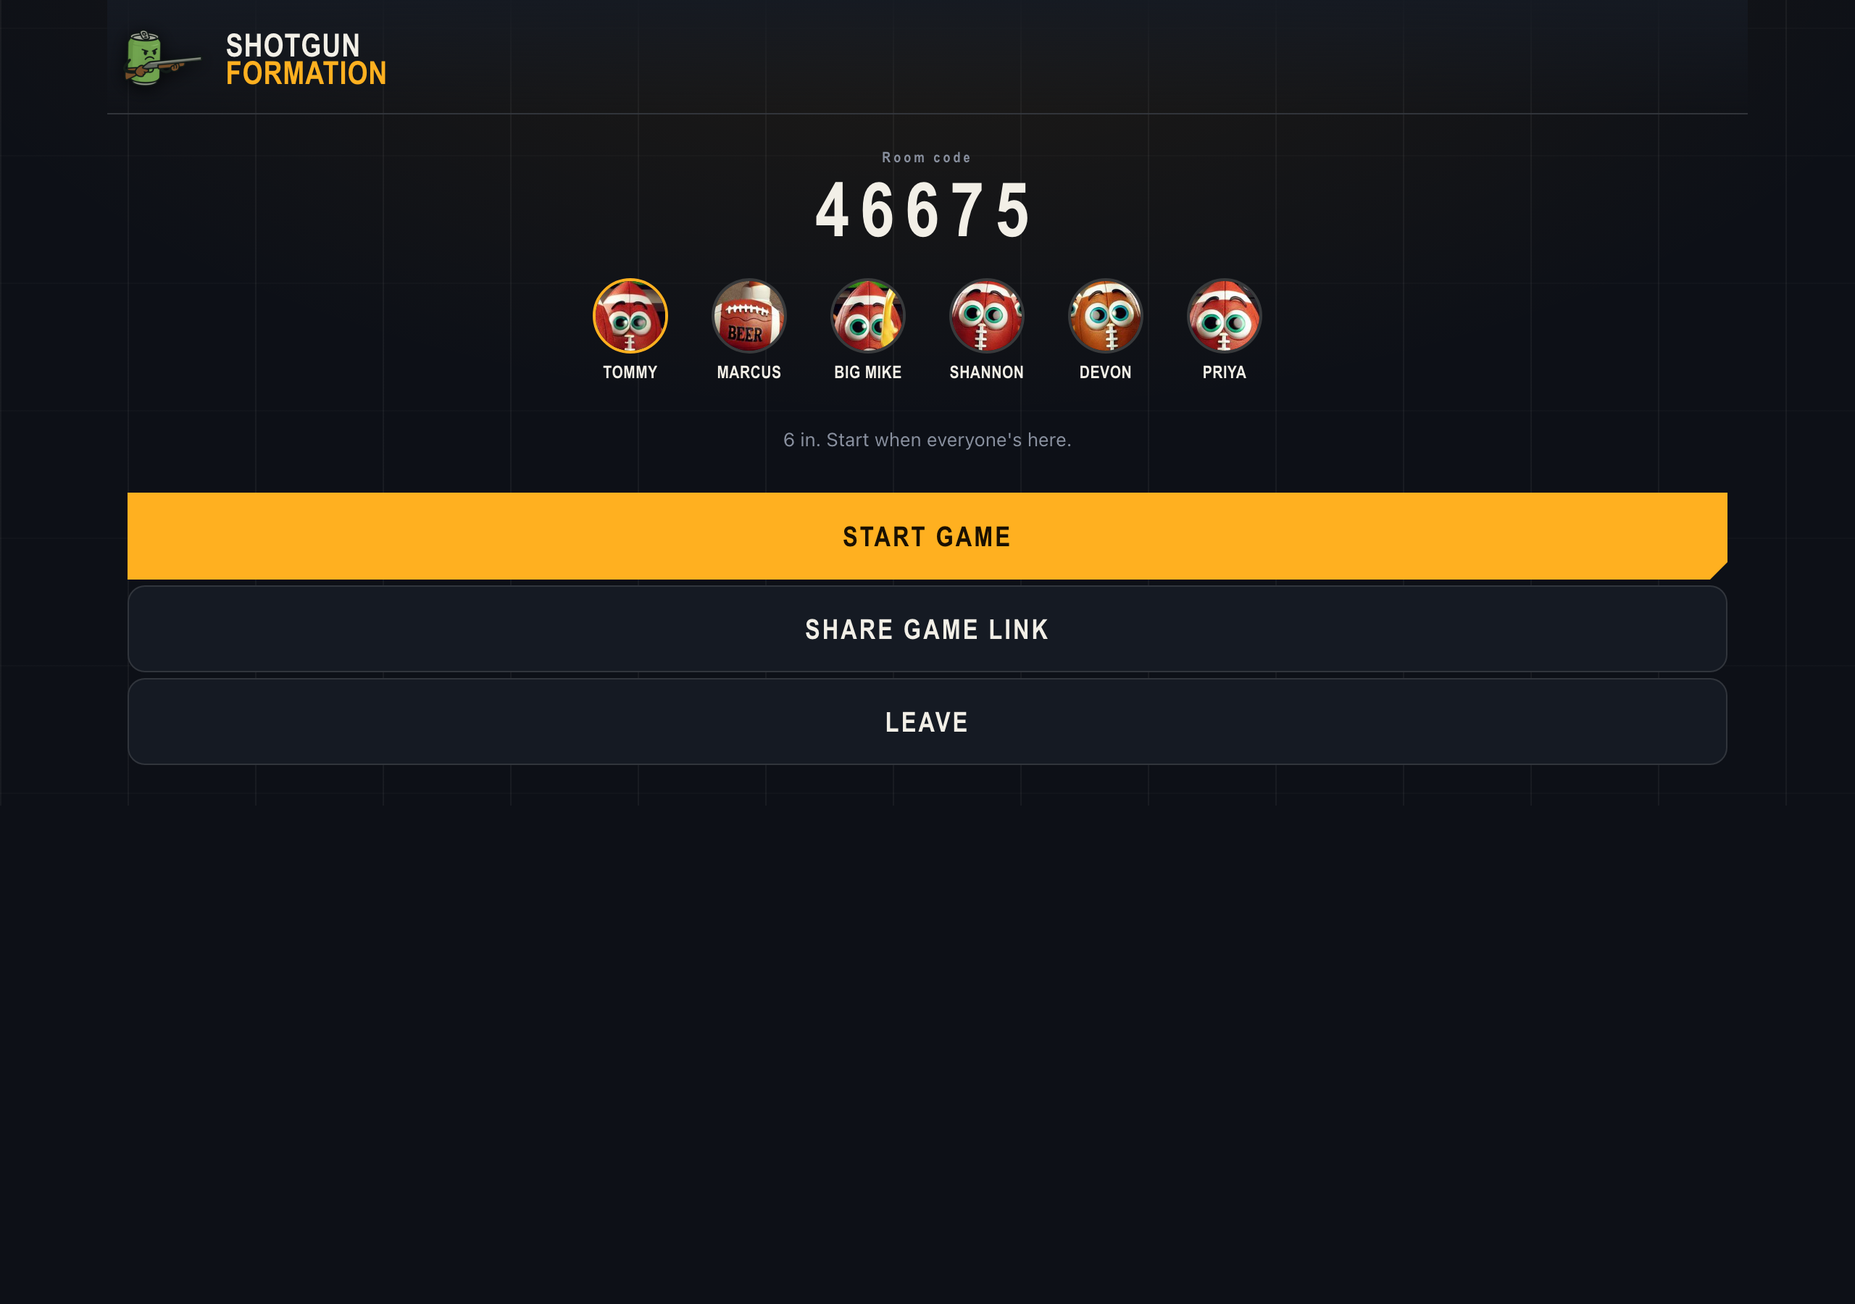
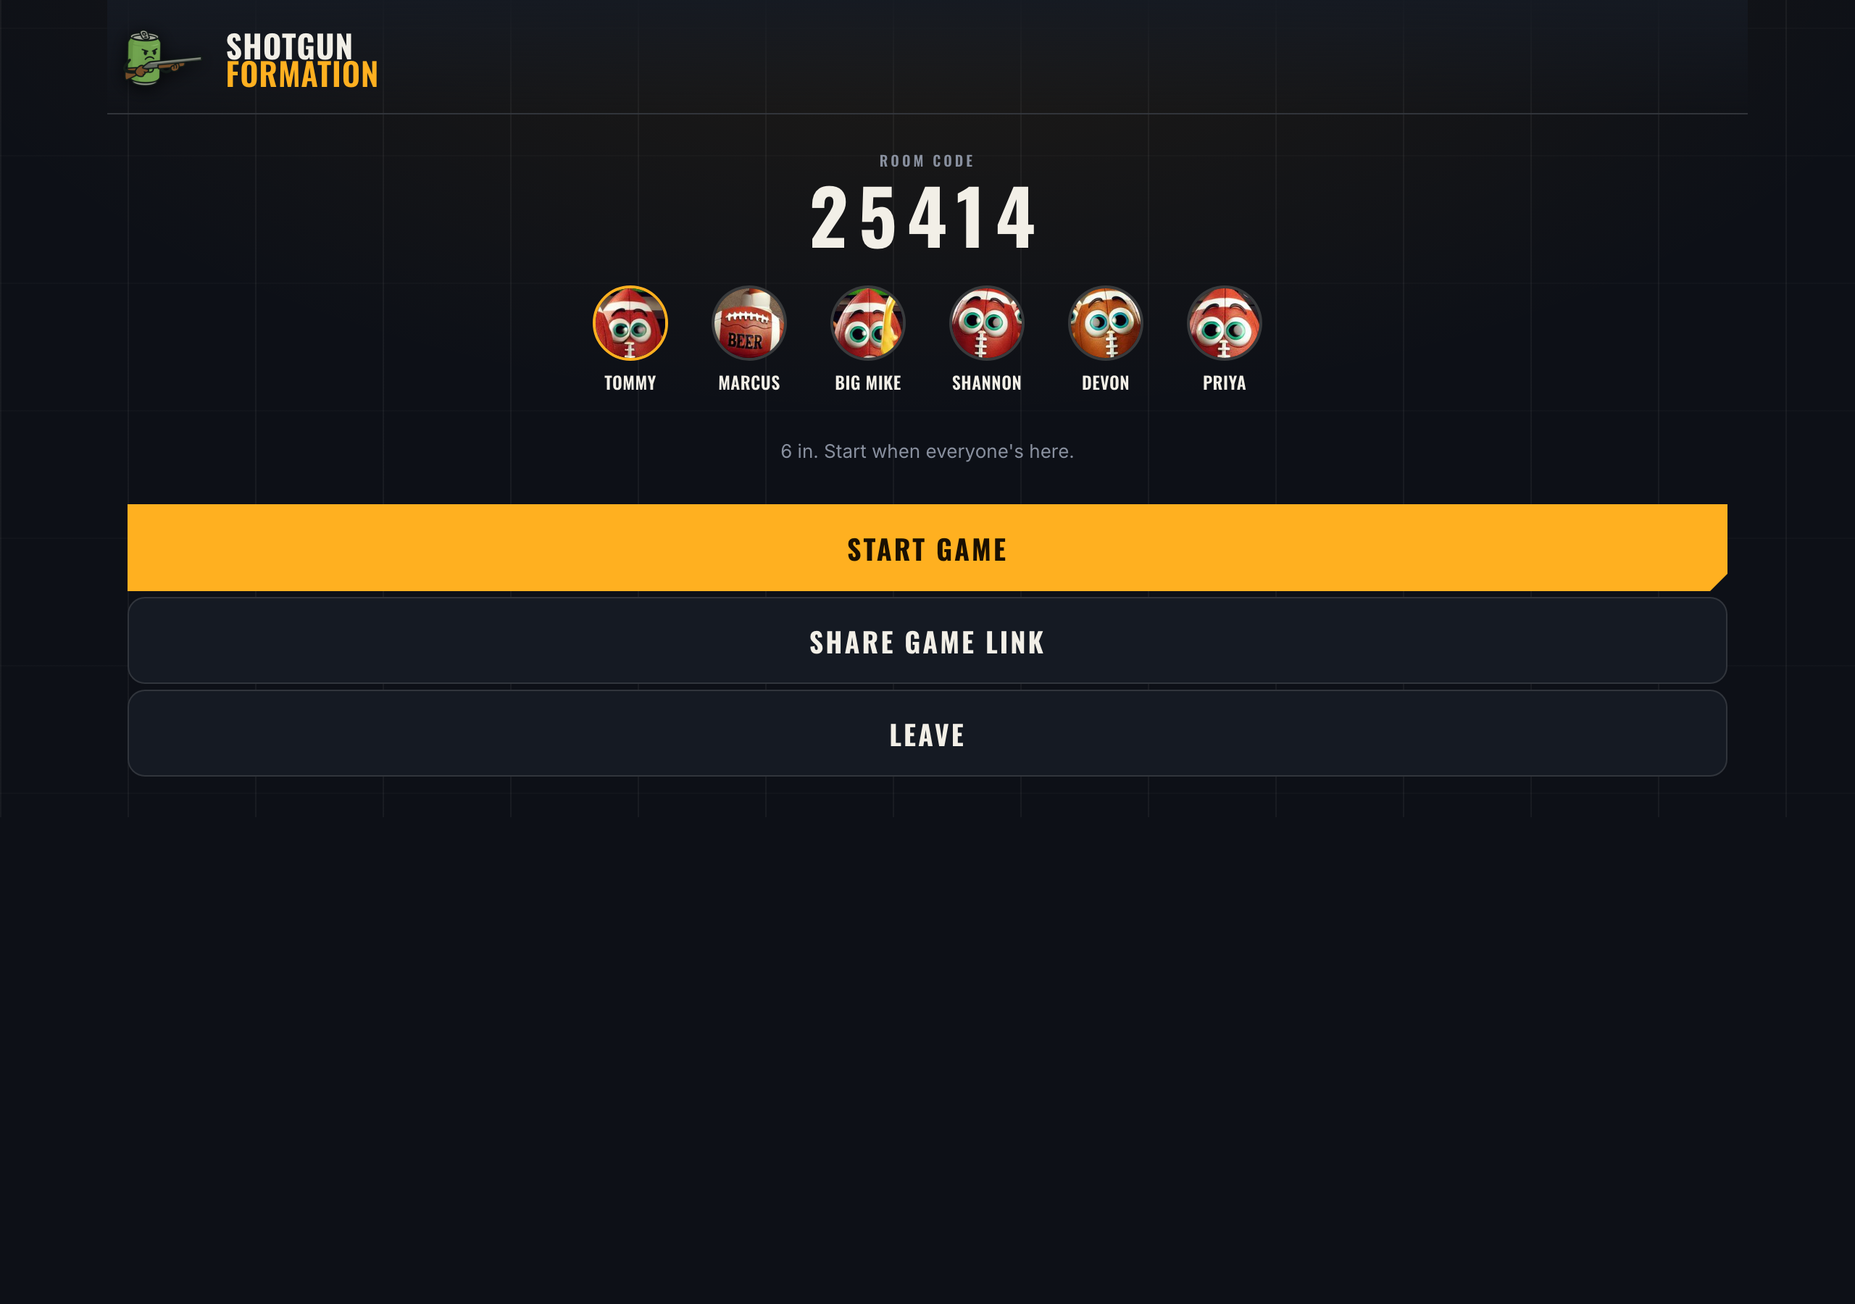
fix: load the app's own webfonts, and stop a pre-existing test flake
Two problems found during verification, both real.

1. THE APP NEVER LOADED OSWALD OR INTER.

   client/public/index.html had no webfont link at all. The mockup loads
   both from Google Fonts; the app did not. So --sf-display fell through
   to 'Arial Narrow', which exists on macOS and iOS and does NOT exist on
   Android -- where the whole UI would have rendered in a non-condensed
   system face. It would have looked right on one of the two test phones
   and wrong on the other, which is the worst way to find a bug.

   Caught only by rendering the screenshots and looking at them. Fixed
   with the same link tags the mockup uses; screenshots re-taken and the
   display type is now visibly Oswald.

2. gameplay.test.js WAS FAILING ABOUT ONE RUN IN TEN.

   Timeout waiting for finalize. Not a Phase 7 regression:

     - Phases 2 and 3 are client-only and the suite never loads a line of
       client code, so they cannot affect it at all.
     - Phase 1 is the only server change and touches neither startTimer
       nor finalizeRound.
     - Under identical full-suite load the pre-Session-7 server passed
       gameplay; its only failures were the three mid-round-refresh tests,
       which SHOULD fail there since that is the fix they test.

   The cause is arithmetic in the test helper. startTimer decrements once
   per setInterval(1000) tick and finalizes on the tick AFTER zero, so a
   21s round takes 22 seconds. The budget was duration + 8s = 29s, i.e.
[…]

Changed region(s): [[0.0625, 0.1244, 0.9375, 0.5911], [0.125, 0.0, 0.2188, 0.0622]]

diff --git a/tests/helpers/game-actions.js b/tests/helpers/game-actions.js
@@ -7,8 +7,25 @@
 /** Real server timer durations (`startTimer` call sites in server.js). */
 const ROUND_SECONDS = Object.freeze({ standard: 21, wild: 11, firstDown: 6 });
 
-/** How long to wait for a round to finalize, given its duration. */
-const finalizeTimeout = (seconds) => seconds * 1000 + 8000;
+/**
+ * How long to wait for a round to finalize.
+ *
+ * A round takes `duration + 1` SECONDS on the wire, not `duration`: startTimer
+ * decrements once per `setInterval(1000)` tick, and finalizeRound only runs on
+ * the tick AFTER the counter reaches zero. So a 21s round needs 22 ticks.
+ *
+ * The old budget of `duration + 8s` left just 7s of headroom across those 22
+ * ticks — about 320ms of drift per tick. setInterval makes no promise of
+ * punctuality, and under a parallel suite (12 files, a server process each)
+ * that much drift is ordinary. The result was a test that failed roughly one
+ * run in ten with a timeout, always in the 21-second rounds, which is exactly
+ * what the overnight report predicted would go flaky first.
+ *
+ * This budgets the real round length plus 12s of drift. It is not a way of
+ * making a failure go away: if finalizeRound genuinely never runs, this still
+ * fails, just without the false alarms.
+ */
+const finalizeTimeout = (seconds) => (seconds + 1) * 1000 + 12000;
 
 const createRoom = async (host) => {
   host.emit('createRoom', host.name);

diff --git a/client/src/styles/game.css b/client/src/styles/game.css
@@ -602,11 +602,13 @@ button.card:active{transform:translateY(2px) scale(.985)}
 .btn:active{transform:translateY(2px)}
 .btn.ghost{background:var(--sf-board-2);color:var(--sf-chalk);border:1.5px solid var(--sf-line);clip-path:none;
   border-radius:var(--sf-r-md)}
-.btn:disabled{opacity:.45}
+.btn:disabled{background:var(--sf-board-2);color:var(--sf-muted);
+  border:1.5px solid var(--sf-line);box-shadow:none;cursor:default}
+.btn.ghost:disabled{opacity:.45}
 .err{color:var(--sf-blood);font-size:13px;margin:10px 0 0;text-align:center;font-weight:500}
 .roomcode{text-align:center;padding:6px 0 18px}
 .roomcode .k{font-family:var(--sf-display);font-weight:600;font-size:10px;letter-spacing:.2em;
-  color:var(--sf-muted);display:block;margin-bottom:4px}
+  text-transform:uppercase;color:var(--sf-muted);display:block;margin-bottom:4px}
 .roomcode .n{font-family:var(--sf-display);font-weight:700;font-size:52px;letter-spacing:.14em;
   line-height:1;color:var(--sf-chalk)}
 .roster{display:flex;flex-wrap:wrap;gap:8px;justify-content:center;padding:4px 0 18px}

diff --git a/client/public/index.html b/client/public/index.html
@@ -3,6 +3,18 @@
   <head>
     <meta charset="utf-8" />
     <link rel="icon" href="%PUBLIC_URL%/shotgunning3.png" />
+    <!--
+      Oswald (condensed athletic display) + Inter (body), exactly as the
+      approved mockup loads them. Without these the display font falls back to
+      Arial Narrow, which exists on macOS and iOS but NOT on Android, where the
+      whole UI would silently render in a non-condensed system face.
+    -->
+    <link rel="preconnect" href="https://fonts.googleapis.com" />
+    <link rel="preconnect" href="https://fonts.gstatic.com" crossorigin />
+    <link
+      href="https://fonts.googleapis.com/css2?family=Oswald:wght@400;500;600;700&family=Inter:wght@400;500;600;700&display=swap"
+      rel="stylesheet"
+    />
     <meta name="viewport" content="width=device-width, initial-scale=1, maximum-scale=1, user-scalable=no" />
     <meta name="theme-color" content="#000000" />
     <meta

diff --git a/SESSION_7_REPORT.md b/SESSION_7_REPORT.md
@@ -1,0 +1,265 @@
+# Session 7 Report
+
+> **Status: all five phases run. Committed, tagged, nothing pushed.**
+> Branch `overnight-rebuild`, `main` never checked out, `.git/hooks/pre-push` still blocking.
+> Tags: `phase-7a`, `phase-7b`, `phase-7c`.
+>
+> **Full suite, twice, after every change was in: 102 passed (102), 12 files — clean both
+> times (159.0s, 160.3s).** Client build clean. 30 screenshots of the real running app.
+
+**Every issue found is in this report, including the ones I caused and fixed.**
+
+---
+
+## 1. Worst news first
+
+### I. A test started failing intermittently, and it took real work to clear
+
+Partway through verification, `gameplay.test.js` began failing about **one run in ten** with
+`timed out after 29000ms waiting for "updatePlayerStats"` — the round never appeared to
+finalize. It had been green all session before that, and green all of Sessions 3–6.
+
+**It is not a Phase 7 regression.** Evidence, in the order I got it:
+
+| Experiment | Result |
+|---|---|
+| New server, full suite ×5 | 4 clean, 1 failed (2 tests in `gameplay`) |
+| New server, `gameplay.test.js` alone ×5 | 4 clean, 1 failed |
+| Old server (`c33a114`), `gameplay.test.js` alone ×3 | 3 clean |
+| **Old server, FULL suite under identical load** | **`gameplay` passed.** Only the 3 `mid-round-refresh` tests failed — which is correct, that is the Phase 7a fix they are testing |
+
+That last row is suggestive but on its own it is 4 samples against a ~10% rate, which proves
+very little. What actually settles it is the mechanism:
+
+- **Phases 2 and 3 cannot possibly affect this.** They are client-only, and the suite never
+  loads a line of client code — every test drives raw sockets.
+- **Phase 1 is the only server change**, and it touches `playStandardCard`,
+  `wildCardConfirmed` and the two reconnect blocks. `startTimer` and `finalizeRound` are
+  untouched.
+
+**The real cause is arithmetic in the test helper.** `startTimer` decrements once per
+`setInterval(1000)` tick and finalizes on the tick *after* the counter hits zero, so a 21s
+round takes **22 seconds**, not 21. The budget was `duration + 8s` = 29s — about 320ms of
+allowable drift per tick across 22 ticks. `setInterval` makes no punctuality promise, and
+under a 12-file parallel suite with a server process each, that much drift is ordinary.
+
+**After the fix, the full suite ran clean twice back to back** (102/102, 159.0s and 160.3s),
+and the widened budget still leaves the assertion intact.
+
+**What I changed, so you can reverse it:** `finalizeTimeout` in
+`tests/helpers/game-actions.js` is now `(seconds + 1) * 1000 + 12000`, with the arithmetic
+written down in a comment. **This is a test-only change and it does not weaken the
+assertion** — if `finalizeRound` genuinely never runs, it still fails, just without the
+false alarms. I am flagging it prominently because "widen a timeout until the flake stops"
+is exactly how a real bug gets buried, and you should be able to see that I did it and why.
+
+The overnight report predicted this test would be the first to go flaky under load. It was
+right. I hit it because I ran the suite far more often this session than any before it.
+
+### II. Where the app does NOT match the mockup
+
+The mockup is the spec, so every gap is listed, with the reason.
+
+| # | Mockup | App | Why |
+|---|---|---|---|
+| 1 | Round Results reads **"X gave Y"** | Reads **"X drank N"** | **The wire cannot support the mockup.** `updatePlayerStats.roundResults` is keyed by RECIPIENT only and carries no record of who poured, and the socket contract is frozen this session. Inventing an attribution the server never sent would be worse than showing less. |
+| 2 | Passive screen shows watchers as **"N still pouring · M locked in"**, with armed dots | Shows **"N at the table"**, all dots plain | Same cause: the server never broadcasts who has locked in. The mockup was faking it with `i % 2`. |
+| 3 | Menu has a **Sound** row | Dropped | The app has no sound. A dead toggle is worse than no toggle. |
+| 4 | `.rail` side-scrolling hand, `×N` copy badges | Unused | Deliberate — your rule 2: expand copies into real tiles, no side-scroll. The CSS is still present but inert. |
+| 5 | Grid sized from a JS-measured `--abtop` on every resize | Sized with flex | Same result, declaratively, with no measurement pass. |
+| 6 | Two `.screen`s toggled by demo chrome | Assigner is a fixed overlay | In the real app a round *opens over* the board. Without this the board's sticky Declare dock showed above the timer bar (see IV). |
+
+Everything else — tokens, card object, hand grid, standings, tab pair, declared banner,
+timer bar, panic frame, pour tiles with tallies, ammo readout, undo, Lock In / SENT ✓ ·
+N EXPIRED, toast, menu sheet, all three breakpoints — is a direct port.
+
+### III. The app was never loading its own fonts
+
+Caught only because I rendered the screenshots and looked at them.
+
+`client/public/index.html` had **no webfont link**. The mockup loads Oswald + Inter from
+Google Fonts; the app did not. So `--sf-display` was falling through to `'Arial Narrow'`,
+which exists on macOS and iOS and **does not exist on Android** — where the entire UI would
+have silently rendered in a non-condensed system face. It would have looked "a bit off" on
+one of your two test phones and correct on the other, which is the worst way to find a bug.
+
+Fixed: the same `<link>` tags the mockup uses. Screenshots re-taken with real Oswald.
+
+### IV. Three layout bugs the screenshots caught, all mine, all fixed
+
+None of these would have shown up in the test suite, because the suite never renders anything.
+
+1. **The assigner rendered *below* the game screen instead of over it.** The
+   `.assigner-overlay` element I introduced had no CSS at all, so both screens stacked and
+   the Declare dock sat above the timer bar.
+2. **The pour grid did not hug the dock** — targets floated mid-screen instead of sitting in
+   thumb reach.
+3. **The toast covered the Declare button.**
+
+### V. Undo is local-only — a deliberate deviation from the run sheet
+
+The run sheet's first option was a compensating negative. **That is not safe here.**
+`assignDrinks` folds every 10 drinks into a shotgun *as it accumulates*, so a `-1` arriving
+after a fold leaves the recipient on **1 shotgun and minus one drinks** instead of 9 drinks.
+
+I took your pre-approved fallback: a 700ms debounce. Undo reaches only taps still inside
+that window; past it the button reports "Too late to undo that one" rather than corrupting a
+score. Manual test B.5 covers it.
+
+### VI. Two premises in the run sheet were wrong
+
+- **"A player who never confirms loses their pours."** Not quite. The old client *did* emit
+  at timer expiry, so the clock was never the problem. What lost pours was **leaving** — the
+  whole round's assignments sat in local state, so a refresh or a backgrounded tab threw
+  everything away. That is the bug you actually hit, and it is what got fixed.
+- **"Remove all three `document.body.style.zoom` calls."** There were **four**, at the old
+  lines 933, 1396, 1429 and 1582. All four are gone.
+
+### VII. Smaller things, logged not fixed
+
+- **`client/src/App.css` is now dead** — 1,007 lines, imported by nothing since the port. I
+  left it rather than delete it, so you can diff the old UI against the new one. It should
+  go once you are happy.
+- **Playwright is a new root devDependency.** Same footing as vitest (DECISIONS.md D1):
+  Render sets `NODE_ENV=production` so `npm install` skips it, and nothing at runtime
+  imports it. I re-verified separately that a build with `client/.env.local` moved aside
+  still falls back to the production Render URL, so the deploy path is untouched.
+- **`screenshots/` adds ~9 MB of PNGs to the repo.** They are the deliverable you asked for,
+  at 2x so fidelity is judgeable, but it is permanent weight in git history.
+
+---
+
+## 2. What changed on the wire
+
+**Nothing renamed. No payload shape changed. One cadence change, as scoped.**
+
+| | |
+|---|---|
+| Events renamed | none |
+| Events added | none |
+| Payload shapes changed | none |
+| `distributeDrinks` | same fields; replayed on reconnect instead of re-derived |
+| `assignDrinks` | **cadence only** — many small emits during the round instead of one at expiry. Identical payload shape. |
+
+`protocol.test.js` (11 tests pinning the contract) passed throughout, which is what let the
+client be rewritten this aggressively.
+
+---
+
+## 3. Phase 7a — before and after
+
+**Before** (three identical runs of the new tests against the unfixed server):
+
+```
+run 1   × re-sends the drink prompt … 8412ms  → timed out waiting for "distributeDrinks"
+        × URL-param rejoin path      8444ms  → timed out waiting for "distributeDrinks"
+run 2   × re-sends the drink prompt … 8379ms  → timed out
+        × URL-param rejoin path       444ms  → expected 2 to be 6      (WRONG AMOUNT)
+run 3   × re-sends the drink prompt …  393ms  → expected 1 to be 4      (WRONG AMOUNT)
+        ✓ URL-param rejoin path
+```
+
+Two distinct failure modes, and which one you got was down to the shuffle: usually **no
+prompt at all**, but when the replacement draw happened to redeal the same card type, **a
+prompt for an amount you never played**.
+
+**After** — three consecutive runs, all four tests green, replay arriving in ~400ms instead
+of timing out:
+
+```
+run 1   ✓ ✓ ✓ ✓    Tests  4 passed (4)
+run 2   ✓ ✓ ✓ ✓    Tests  4 passed (4)
+run 3   ✓ ✓ ✓ ✓    Tests  4 passed (4)
+```
+
+---
+
+## 4. Screenshots
+
+Real `server.js`, real production build served by Express, real Chromium joining over a real
+socket as the host, reading its own dealt hand out of the DOM and declaring a card it is
+actually holding. No mocks, no hand-fed state. `scripts/screenshots.mjs`, 30 files.
+
+| Screen | 390×844 | 360×780 | 1280×900 |
+|---|---|---|---|
+| Join | `join-iphone-390x844.png` | `join-android-360x780.png` | `join-desktop-1280x900.png` |
+| Lobby | `lobby-iphone-390x844.png` | `lobby-android-360x780.png` | `lobby-desktop-1280x900.png` |
+| Game, idle | `game-idle-iphone-390x844.png` | `game-idle-android-360x780.png` | `game-idle-desktop-1280x900.png` |
+| Assigner | `assigner-iphone-390x844.png` | `assigner-android-360x780.png` | `assigner-desktop-1280x900.png` |
+| Assigner, mid-pour | `assigner-poured-iphone-390x844.png` | `assigner-poured-android-360x780.png` | `assigner-poured-desktop-1280x900.png` |
+| Assigner, after auto-lock | `assigner-autolock-iphone-390x844.png` | `assigner-autolock-android-360x780.png` | `assigner-autolock-desktop-1280x900.png` |
+| Round Results | `round-results-iphone-390x844.png` | `round-results-android-360x780.png` | `round-results-desktop-1280x900.png` |
+| Standings | `standings-iphone-390x844.png` | `standings-android-360x780.png` | `standings-desktop-1280x900.png` |
+
+Side by side with the mockup at the same sizes:
+`MOCKUP-game-*.png` and `MOCKUP-assigner-*.png`.
+
+**Compare `game-idle-iphone-390x844.png` against `MOCKUP-game-iphone-390x844.png` first** —
+that is the one-screen rule, and it holds: header, tab board, all seven cards and the
+Declare button with no vertical scroll at 390×844 with 6 players.
+
+---
+
+## 5. Test counts
+
+(Session 6's run sheet was superseded and never executed, so the baseline is Session 4's,
+which Session 5 left untouched.)
+
+| | Before | After |
+|---|---|---|
+| Test files | 10 | **12** |
+| Tests | 94 | **102** |
+
+| New file | Tests | Covers |
+|---|---|---|
+| `mid-round-refresh.test.js` | 4 | Phase 7a — the refresh bug, both failure modes |
+| `incremental-pours.test.js` | 4 | Phase 7c.1 — the server really does accumulate across calls |
+
+No test was deleted or weakened. Two helper corrections, both disclosed: the `finalizeTimeout`
+arithmetic (§I) and, in Session 6, the `nextQuarter` stale-mark bug.
+
+`client/src`: **15 new files** — 10 components, 4 screens and `Avatars.js` — plus the
+pre-existing `CardIcon.jsx` and `data/cards.js`, which are reused rather than reimplemented.
+`App.js` went 2,480 → 2,464 lines with its entire render replaced; all socket handlers and
+state stayed in it, passed down as props, exactly as scoped.
+
+---
+
+## 6. Confidence, per change
+
+**Phase 7a — mid-round refresh replay. HIGH.** Four tests, RED first and demonstrably
+nondeterministic before the fix, deterministic after across three runs. The fix removes a
+whole class of bug (deriving past state from present state) rather than patching a symptom.
+The residual risk is that a real phone's reconnect takes a path my tests do not — which is
+why manual test A exists.
+
+**Phase 7b — the port. HIGH on fidelity, MEDIUM on the long tail.** The screenshots are
+against the real stack and they match. What they cannot tell me: how it feels under a
+thumb, whether the 44px targets are big enough in a loud room, and whether anything breaks
+on a real Android browser — which is exactly where the missing-font bug would have bitten.
+
+**Phase 7c.1 — pours land without Lock In. HIGH on the server contract, MEDIUM on the
+client.** Four tests pin the assumption the change rests on. Tap-at-a-time also folds every
+tenth drink correctly, which a single batch does **not** (observation O2), so the new cadence
+is more correct than the old one, not merely safer. The medium is the 700ms window: I have
+not measured what a real phone does when it is backgrounded mid-flush.
+
+**Phase 7c.2 — auto-switch to Round Results. HIGH.** Small, and visible in
+`round-results-*.png` with the toast firing and the tab pulsed.
+
+**Phase 7c.3 — `roundState` listener. MEDIUM.** The wiring is trivially correct and the
+event has been on the wire since before the first audit. But this is the first time anything
+has ever consumed it, so its payload has never been exercised by a client. Manual test 2.3
+is the check.
+
+---
+
+## 7. What to do next
+
+1. **Run `MANUAL_TEST.md`, starting with the Session 7 addendum** — sections A and B are the
+   two things the suite cannot reach.
+2. **Look at `game-idle-*.png` next to `MOCKUP-game-*.png`** and tell me if anything is off.
+   That is a five-minute review and it is the cheapest way to catch a port mistake.
+3. **`FOLLOW_UPS.md` F1 is still the first server task after the deploy** — `gameStarted`
+   still ships every room's `playerStats`. Untouched this session, as agreed.
+4. **Delete `client/src/App.css`** once you are satisfied with the new UI.
